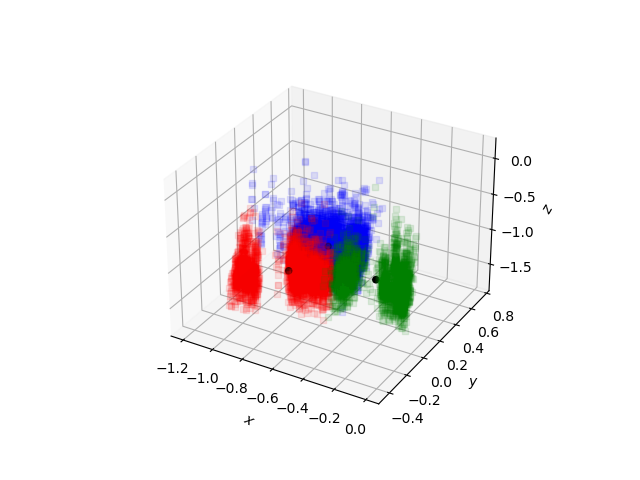
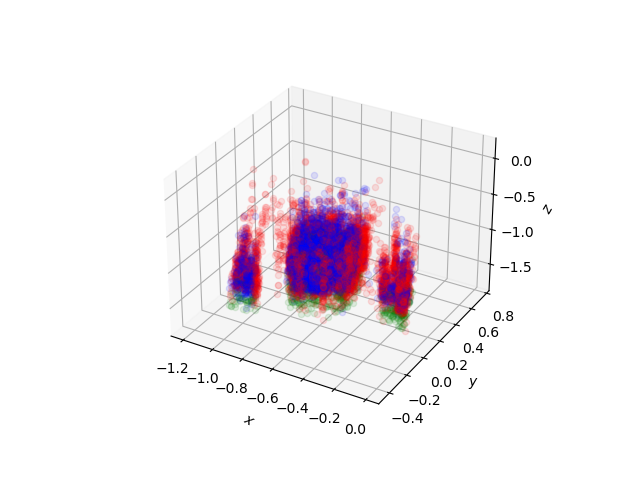
small changes

Changed region(s): [[0.3438, 0.3438, 0.6562, 0.7188], [0.4688, 0.3125, 0.5, 0.3438]]

diff --git a/src/test.py b/src/test.py
@@ -7,7 +7,7 @@ from sklearn.model_selection import train_test_split
 from kmeans import *
 import numpy as np
 from sklearn.metrics import accuracy_score
-from sklearn.cluster import KMeans
+from sklearn.cluster import KMeans, DBSCAN
 
 
 ## ML Perceptron ##
@@ -34,6 +34,41 @@ def kmeans():
     X_df = scaler.fit_transform(X_df, Y_df)
     X_train_val, X_test, Y_train_val, Y_test = train_test_split(X_df, Y_df, test_size=0.2)
     X_train, X_val, Y_train, Y_val = train_test_split(X_train_val, Y_train_val, test_size = 0.12517)
+    print(X_df.shape)
+    # pca_data_set = Kmeans(3, max_iters=100).pca(X_df).T @ X_df.T
+
+    kmeans = KMeans(n_clusters = 3, init = 'k-means++', max_iter = 300, n_init = 10, random_state = 0)
+    # print(pca_data_set.shape)
+    kmeans.fit(X_df)
+    labels = kmeans.labels_
+    print(np.argmax(Y_df, axis = 1), labels)
+    print(sum(np.argmax(Y_df, axis = 1) == labels)/len(labels))
+
+    # fig = plt.figure()
+    # ax = fig.add_subplot(projection='3d')
+    # for i in range(Y_df.shape[0]):
+    #     if labs[i] == 0:
+    #         color_val = 'red'
+    #     elif labs[i] == 1:
+    #         color_val = 'blue'
+    #     else:
+    #         color_val = 'green'
+    #     ax.scatter(pca_data_set[0,i], pca_data_set[1,i], pca_data_set[2,i], marker='o', color = color_val, alpha=0.1)
+    # ax.set_xlabel('$x$', rotation=150)
+    # ax.set_ylabel('$y$')
+    # ax.set_zlabel('$z$',rotation=60)
+    # # ax.scatter(kmeans_obj.centroids[:,0], kmeans_obj.centroids[:,1], kmeans_obj.centroids[:,2], marker ='o', color="black")
+    # plt.savefig(f'results/kmeans_pca_scatter')
+    # plt.show()
+
+def dbscan():
+    X_df, Y_df = parse.preprocess()
+    scaler = MinMaxScaler()
+    X_df = scaler.fit_transform(X_df, Y_df)
+    X_train_val, X_test, Y_train_val, Y_test = train_test_split(X_df, Y_df, test_size=0.2)
+    X_train, X_val, Y_train, Y_val = train_test_split(X_train_val, Y_train_val, test_size = 0.12517)
+
+    # print(X_df.shape)
 
     kmeans_obj = Kmeans(Y_df.shape[1], 100, 64)
     # kmeans_obj.train(X_df, Y_df)
@@ -42,37 +77,9 @@ def kmeans():
     # print(accuracy_score(kmeans_obj.labels, np.argmax(Y_df, axis = 1)))
     pca_vec = kmeans_obj.pca(X_df)
     pca_data_set = pca_vec.T @ X_df.T
-    print(pca_data_set.shape)
 
-    # kmeans_obj = KMeans(Y_df.shape[1], max_iter=10, random_state=43, init="random")
-    # kmeans_obj.fit(pca_data_set.T.real)
-    # print(kmeans_obj.score(pca_data_set.T.real))
-    # print(kmeans_obj.labels_, np.argmax(Y_df, axis=1))
-    # print(kmeans_obj.cluster_centers_, np.argmax(Y_df, axis=1))
-    kmeans_obj = Kmeans(Y_df.shape[1], 100, 64)
-    kmeans_obj.train(pca_data_set.T, Y_df)
-
-    print(kmeans_obj.compute_sse(pca_data_set.T, kmeans_obj.labels, kmeans_obj.centroids))
-    print(accuracy_score(kmeans_obj.labels, np.argmax(Y_df, axis = 1)))
-    # print(kmeans_obj.labels)
-
-    fig = plt.figure()
-    ax = fig.add_subplot(projection='3d')
-    for i in range(len(kmeans_obj.labels)):
-        if kmeans_obj.labels[i] == 0:
-            color_val = 'red'
-        elif kmeans_obj.labels[i] == 1:
-            color_val = 'blue'
-        else:
-            color_val = 'green'
-        ax.scatter(pca_data_set[0,i], pca_data_set[1,i], pca_data_set[2,i], marker='o', color = color_val, alpha=0.1)
-    ax.set_xlabel('$x$', rotation=150)
-    ax.set_ylabel('$y$')
-    ax.set_zlabel('$z$',rotation=60)
-    ax.scatter(kmeans_obj.centroids[:,0], kmeans_obj.centroids[:,1], kmeans_obj.centroids[:,2], marker ='o', color="black")
-    plt.savefig(f'results/kmeans_pca_scatter')
-    # plt.show()
-
+    db_obj = DBSCAN(10).fit(pca_data_set.T.real, Y_df)
+    print(db_obj.labels_)
     
 
 
@@ -82,5 +89,6 @@ if __name__ == '__main__':
     # ml_perceptron(visualize=False)
     # np.set_printoptions(threshold=sys.maxsize)
     kmeans()
+
     
     
